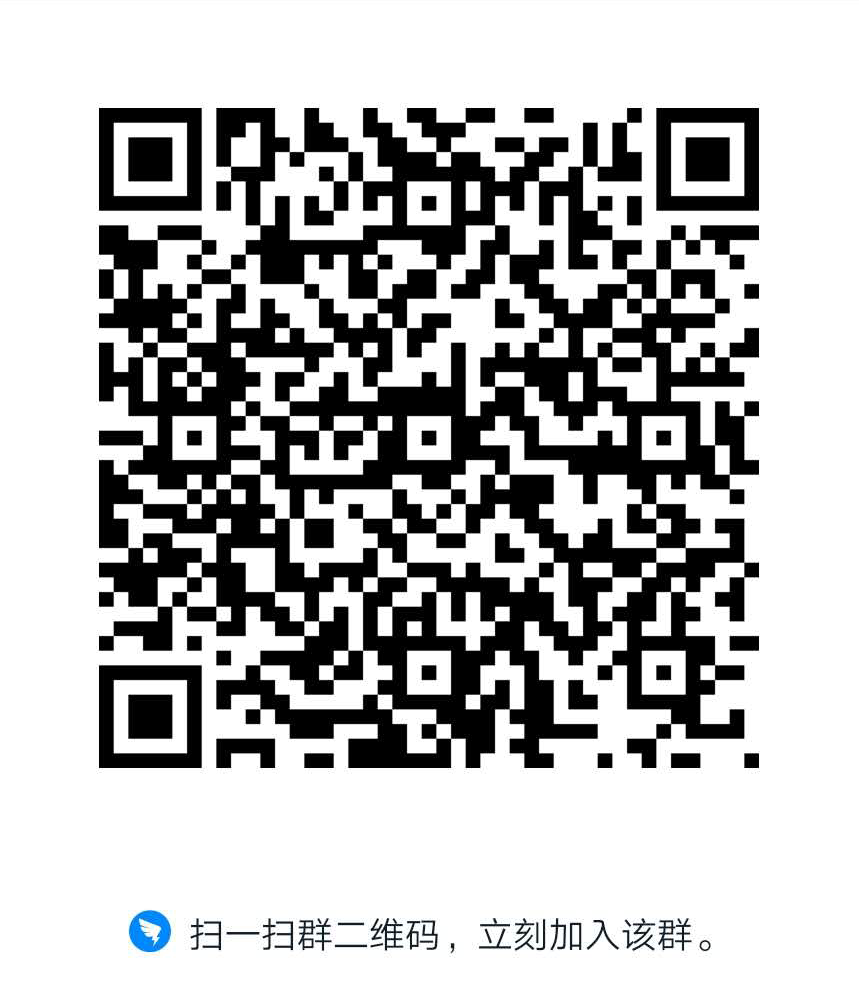
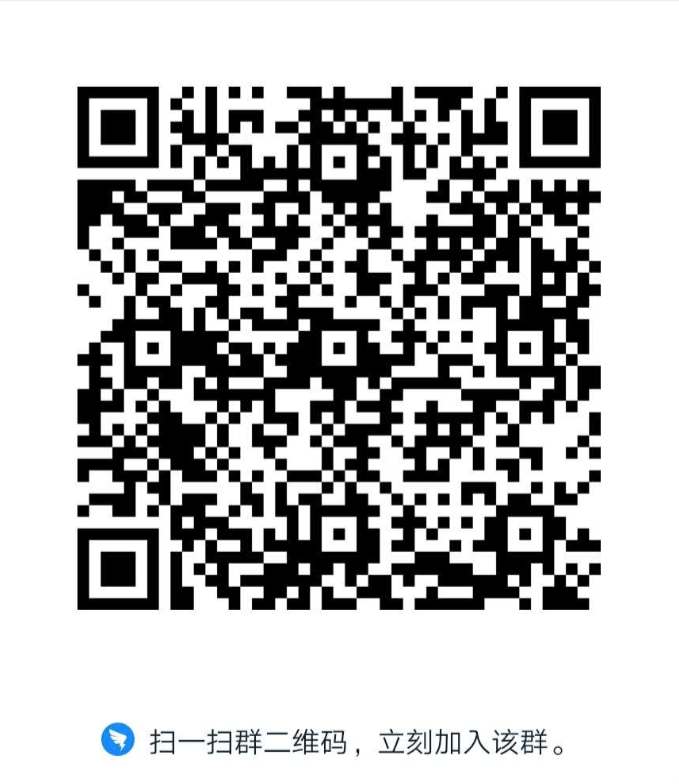
update png

Changed region(s): [[0.0928, 0.0918, 0.8969, 0.7959], [0.1546, 0.9184, 0.5258, 0.9796], [0.5567, 0.9184, 0.8351, 0.9796]]

diff --git a/site/theme/template/Home/index.jsx b/site/theme/template/Home/index.jsx
@@ -63,7 +63,7 @@ const HomePage = (props) => {
             <div className="img-wrapper">
               <a
                 target="_blank"
-                href="https://qr.dingtalk.com/action/joingroup?code=v1,k1,/5EJlq2mD/6YsUtJvut5YLqoLzab12EAzhkpFzbKaYY=&_dt_no_comment=1&origin=11"
+                href="https://qr.dingtalk.com/action/joingroup?code=v1,k1,2Vd6ejhTjOG/N3biCDrNJIll3BlVGlO+cTKhGZe9LLM=&_dt_no_comment=1&origin=11"
               >
                 <img src={qrcode} alt="" />
               </a>
